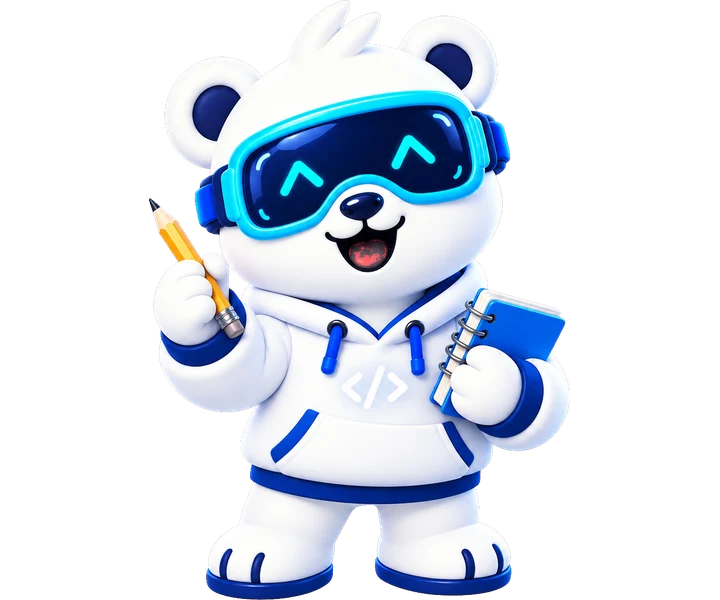
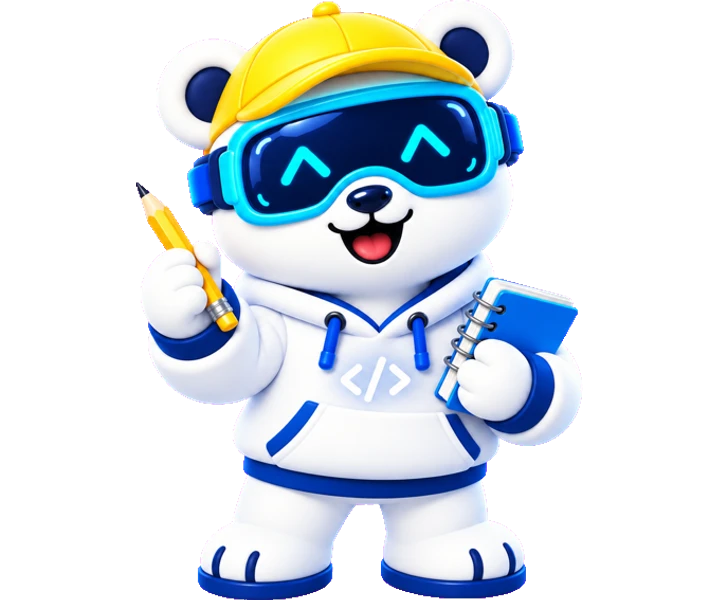
feat(doya-power): ドヤくんの成長の3段階を衣装で見分けられるようにする（見習い・一人前の絵を作り直す）

Changed region(s): [[0.1833, 0.0, 0.825, 1.0], [0.275, 0.9, 0.4583, 1.0], [0.4583, 0.87, 0.4889, 0.9]]

diff --git a/docs/design/images/growth/PROMPTS.md b/docs/design/images/growth/PROMPTS.md
@@ -1,0 +1,25 @@
+# ドヤくんの成長の3段階と衣装（2026-10-24）
+
+成長の段階ごとに衣装を変え、ひと目で見分けられるようにした（ドヤパワーの点検表 C3）。
+
+| 段階 | 衣装 | ファイル |
+|---|---|---|
+| 見習い | パーカーに黄色い初心者の帽子、メモとえんぴつ | public/ui-renewal/mascots/growth-apprentice.webp |
+| 一人前 | パーカーの上に紺のジャケット、社員証、ノートパソコン | public/ui-renewal/mascots/growth-pro.webp |
+| 社長 | 紺のスーツとネクタイ、かばん（前のまま） | public/ui-renewal/mascots/growth-president.webp |
+
+- 作り方: Codex の定額の画像生成（gpt-5.6-sol、ChatGPT ログイン）。従量の API は使っていない。
+- マゼンタの背景で作り、sharp で透過にした。720x600 の WebP。
+- 参考の絵: ドヤくんの見本（bear-hero・icon-sample・expressions）と、前の見習い・社長の絵。
+
+## プロンプト（見習い）
+
+```
+Use your built-in image generation tool (not any API key, not a script) to generate ONE image and save it as raw/growth-apprentice-v2.png. Growth stage 1 "apprentice": Doya-kun wears the white hoodie with a small white </> symbol on the chest, plus a bright yellow #ffd400 beginner cap (a soft round cap with a small brim) on the head between the ears, holding a small notebook and pencil, eager smile, eye lights ^ ^. on a perfectly flat solid pure magenta #ff00ff background (no ground shadow, no gradient; it will be keyed out). Full body, front three-quarter view, same size, pose scale and soft glossy 3D sticker render as the attached growth-president.webp and growth-apprentice.webp, so the three growth stages line up as a set. The ドヤAI polar bear mascot Doya-kun exactly like the references: white fluffy bear, blue visor goggles (#0066ff frame, cyan #00e0ff rim, dark navy lens) with glowing cyan eye lights inside the lens following expressions.png. Brand colors only: #0066ff, #00e0ff, navy #0a1446, white, plus at most one accent. 720x600 landscape canvas, the bear centered and filling about 85% of the height. ABSOLUTELY NO text, letters, numerals, logos or watermarks.
+```
+
+## プロンプト（一人前）
+
+```
+Use your built-in image generation tool (not any API key, not a script) to generate ONE image and save it as raw/growth-regular-v2.png. Growth stage 2 "competent member": Doya-kun wears a smart navy #0a1446 short business jacket open over the white hoodie, with a blue lanyard and a white ID badge card (blank, no text) on the chest, holding a blue laptop under one arm and giving a confident thumbs up, eye lights confident ^ ^ with one small sparkle. Clearly more grown-up than the apprentice but more casual than the president suit. on a perfectly flat solid pure magenta #ff00ff background (no ground shadow, no gradient; it will be keyed out). Full body, front three-quarter view, same size, pose scale and soft glossy 3D sticker render as the attached growth-president.webp and growth-apprentice.webp, so the three growth stages line up as a set. The ドヤAI polar bear mascot Doya-kun exactly like the references: white fluffy bear, blue visor goggles (#0066ff frame, cyan #00e0ff rim, dark navy lens) with glowing cyan eye lights inside the lens following expressions.png. Brand colors only: #0066ff, #00e0ff, navy #0a1446, white, plus at most one accent. 720x600 landscape canvas, the bear centered and filling about 85% of the height. ABSOLUTELY NO text, letters, numerals, logos or watermarks.
+```
